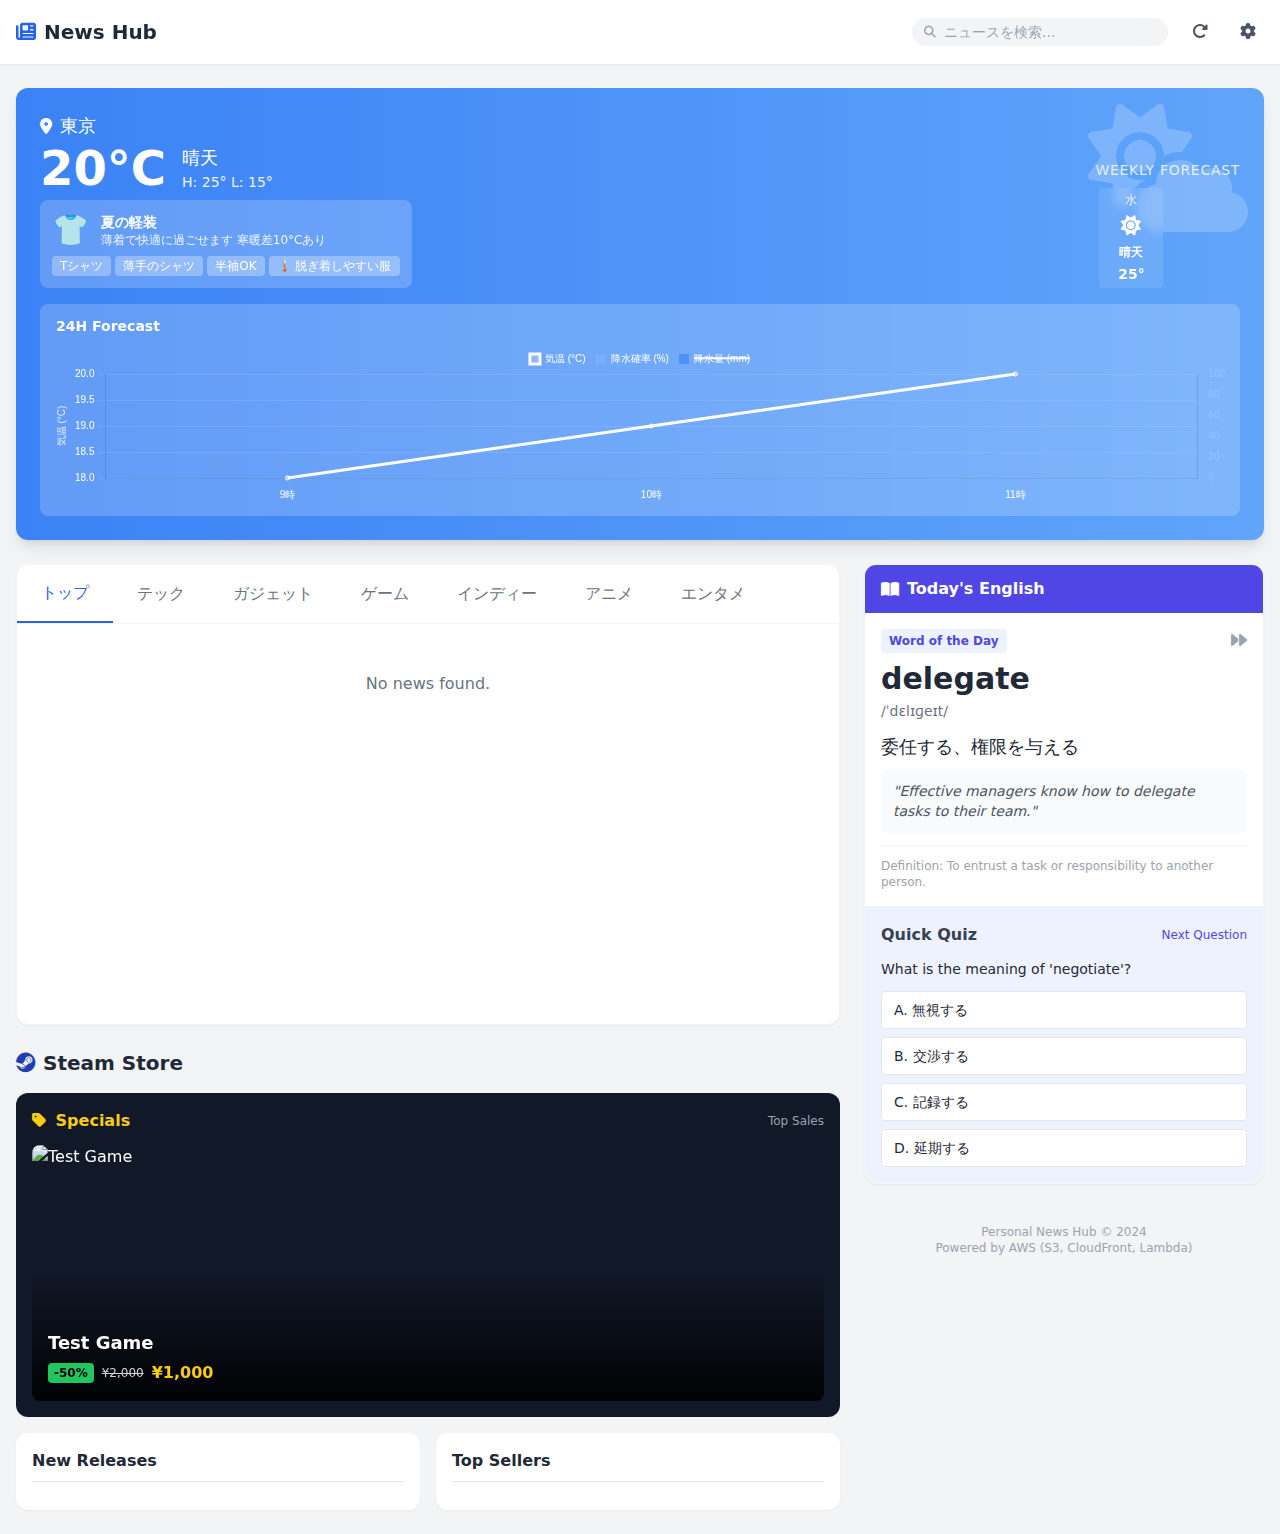
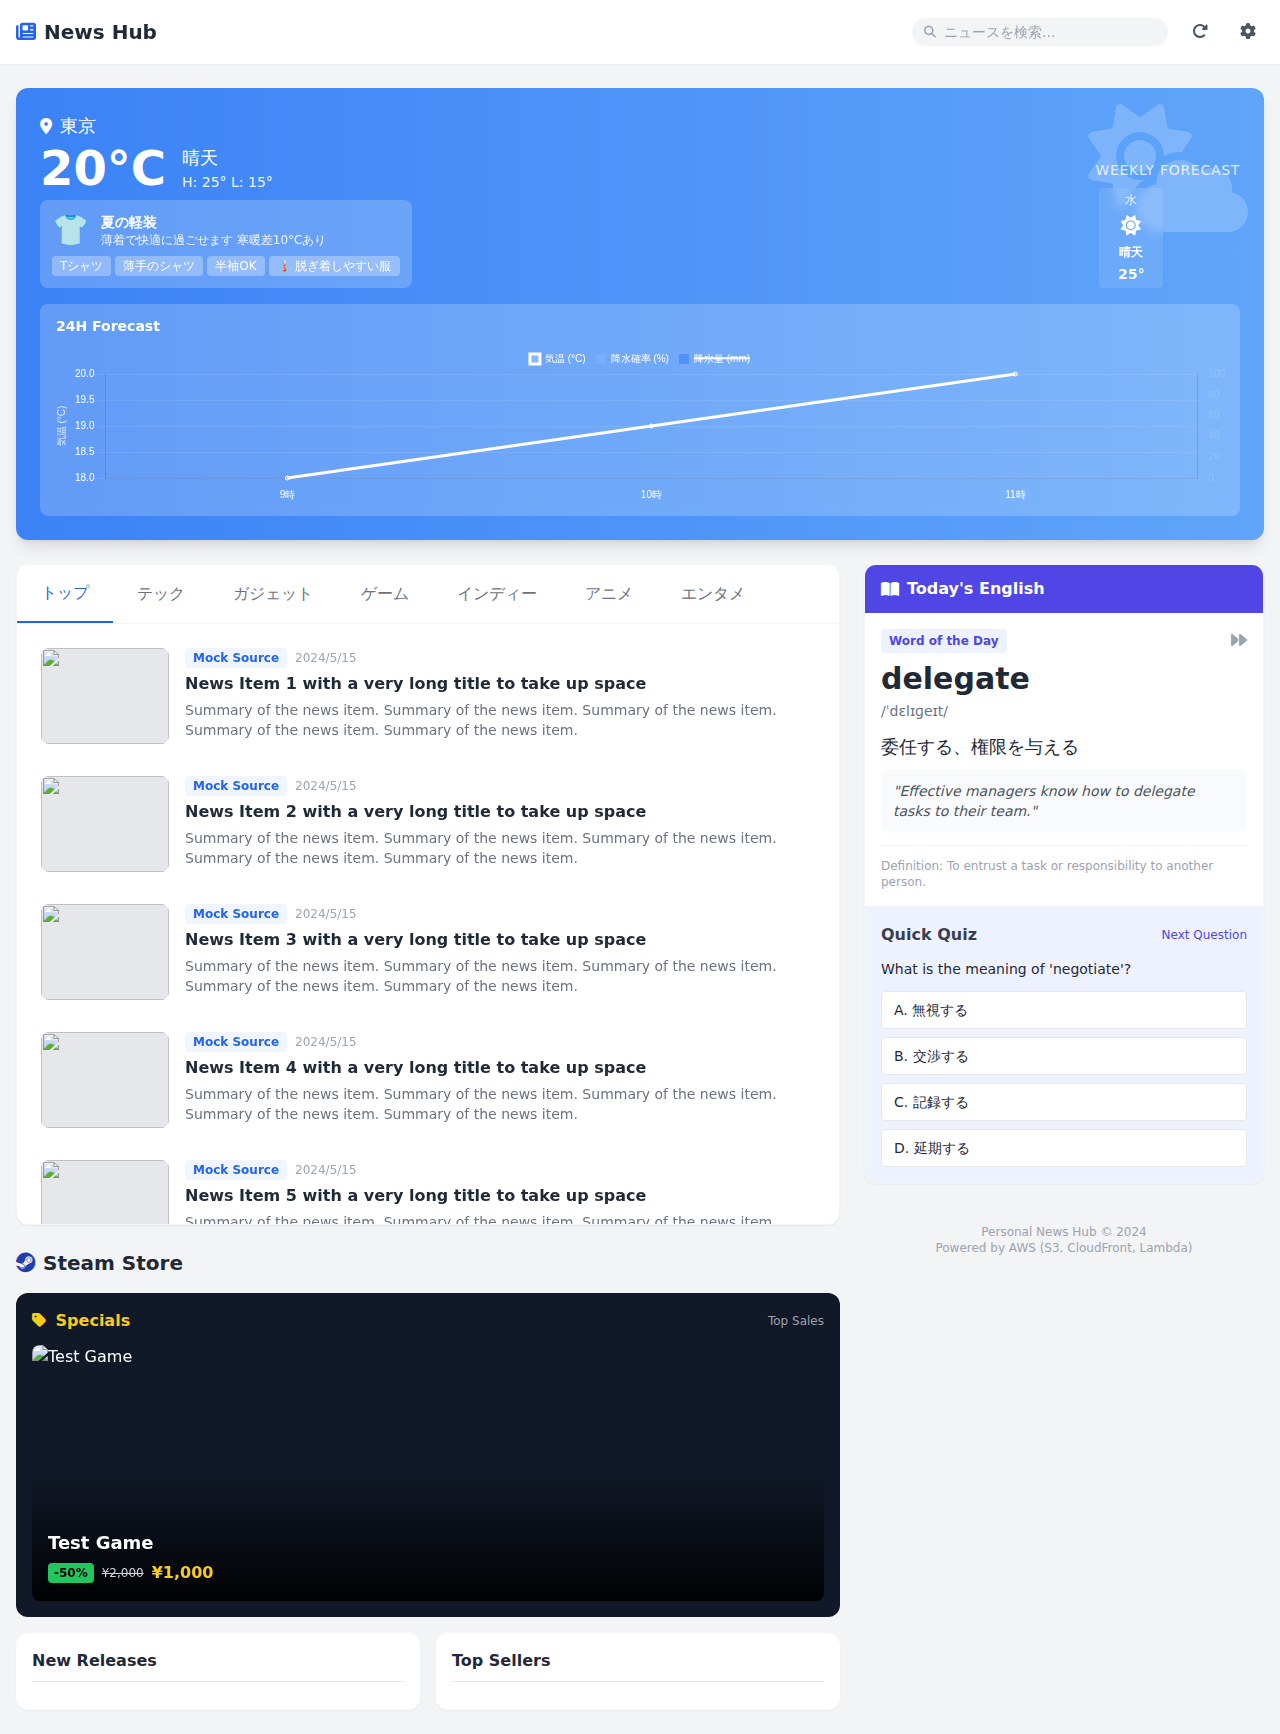
ニュース欄のスクロール対応とサムネイル取得改善
- ニュース表示エリアを固定高さ(600px)にし、スクロール可能に変更
- RSSフィードの本文から正規表現で画像を抽出するロジックを追加
- フロントエンド検証スクリプトを更新し、スクロール動作のテストケースを追加

diff --git a/frontend/index.html b/frontend/index.html
@@ -137,7 +137,7 @@
                         </div>
                     </div>
 
-                    <div id="news-container" class="p-4 min-h-[400px]">
+                    <div id="news-container" class="p-4 h-[600px] overflow-y-auto scrollbar-thin">
                         <!-- News items injected here -->
                         <div class="animate-pulse space-y-4">
                             <div class="flex space-x-4">

diff --git a/verification/verify_frontend.py b/verification/verify_frontend.py
@@ -33,12 +33,25 @@ def run(playwright):
     def handle_empty(route):
          route.fulfill(status=200, body=json.dumps([]), headers={"Content-Type": "application/json"})
 
+    def handle_news_mock(route):
+        news_items = []
+        for i in range(20):
+            news_items.append({
+                "title": f"News Item {i+1} with a very long title to take up space",
+                "link": "#",
+                "published": "2024-05-15 10:00:00",
+                "source": "Mock Source",
+                "summary": "Summary of the news item. " * 5,
+                "image": "https://via.placeholder.com/150"
+            })
+        route.fulfill(status=200, body=json.dumps(news_items), headers={"Content-Type": "application/json"})
+
     def handle_dict(route):
         route.fulfill(status=200, body=json.dumps({}), headers={"Content-Type": "application/json"})
 
     page.route("**/api/weather*", handle_weather)
     page.route("**/api/steam/sales", handle_steam_sales)
-    page.route("**/api/news*", handle_empty)
+    page.route("**/api/news*", handle_news_mock)
     page.route("**/api/steam/new", handle_empty)
     page.route("**/api/steam/popular", handle_empty)
     page.route("**/api/english*", handle_dict)

diff --git a/lambda/api_aggregator/news.py b/lambda/api_aggregator/news.py
@@ -2,6 +2,7 @@ import feedparser
 from concurrent.futures import ThreadPoolExecutor
 import time
 from datetime import datetime
+import re
 
 # RSS Feed URLs
 FEED_URLS = {
@@ -73,6 +74,18 @@ def parse_feed(url):
             if not image_url and hasattr(entry, 'media_thumbnail'):
                 if len(entry.media_thumbnail) > 0:
                     image_url = entry.media_thumbnail[0].get('url')
+
+            # 説明文(summary/description/content)から画像を抽出
+            if not image_url:
+                content_to_search = getattr(entry, 'summary', '') or getattr(entry, 'description', '')
+                if hasattr(entry, 'content'):
+                    for c in entry.content:
+                        content_to_search += c.get('value', '')
+
+                # <img src="..."> を検索
+                img_match = re.search(r'<img[^>]+src=["\'](.*?)["\']', content_to_search, re.IGNORECASE)
+                if img_match:
+                    image_url = img_match.group(1)
 
             entries.append({
                 'title': entry.title,
